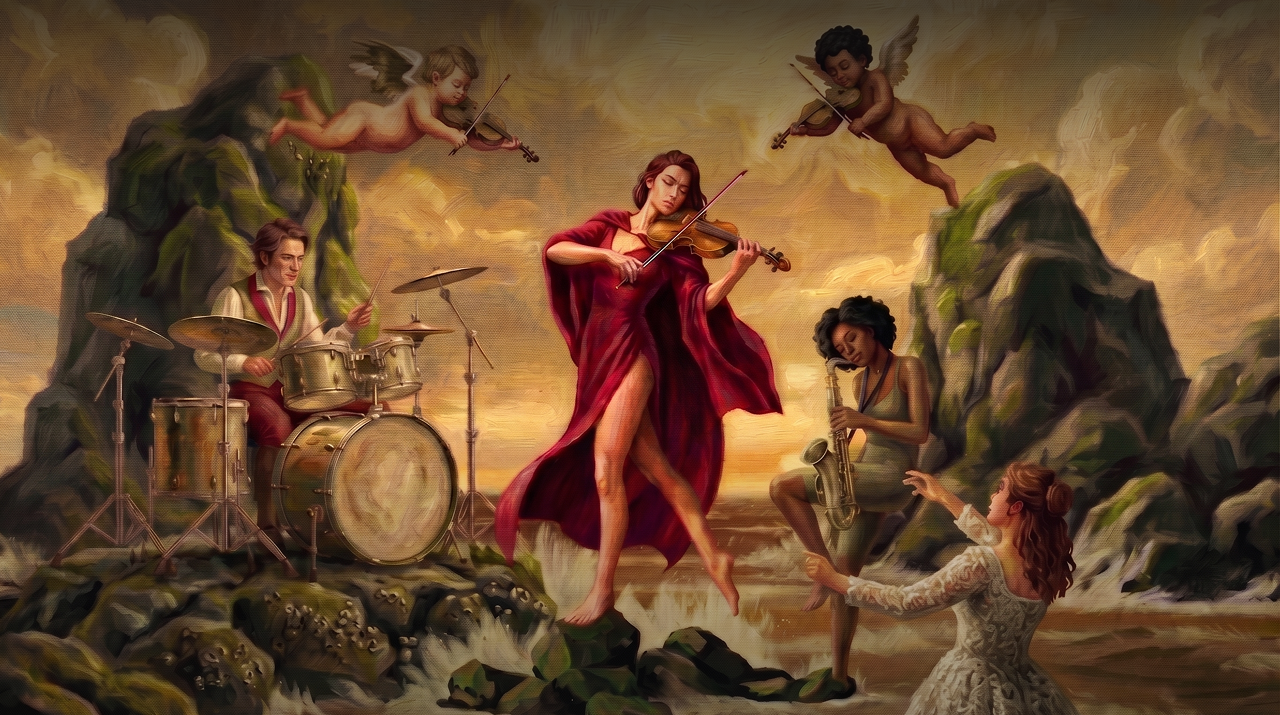
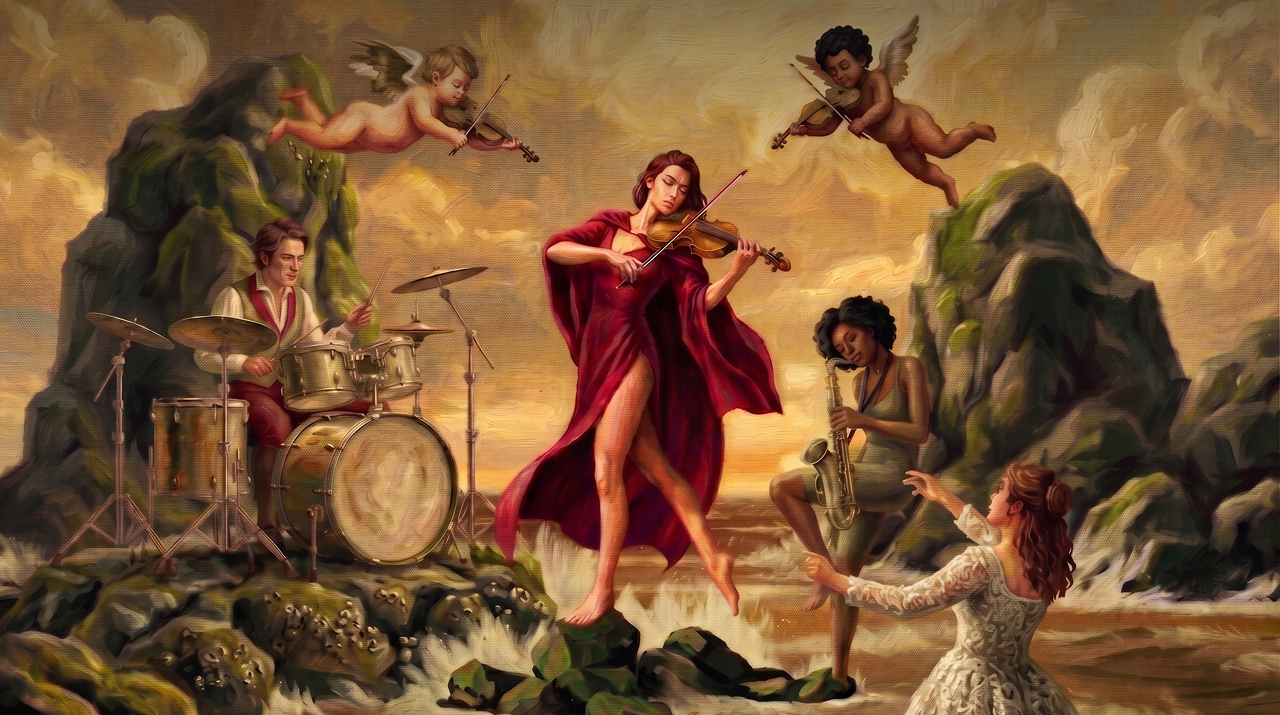
feat: implement homepage layout, responsive navigation, and site footer with custom branding assets

diff --git a/src/components/layout/Navbar.tsx b/src/components/layout/Navbar.tsx
@@ -66,20 +66,17 @@ export default function Navbar() {
 
   return (
     <header
-      className={`fixed top-0 left-0 right-0 z-50 transition-transform duration-500 ease-in-out ${
-        isVisible ? 'translate-y-0' : '-translate-y-full'
-      } ${
-        isTransparent
+      className={`fixed top-0 left-0 right-0 z-50 transition-transform duration-500 ease-in-out ${isVisible ? 'translate-y-0' : '-translate-y-full'
+        } ${isTransparent
           ? 'bg-transparent border-transparent text-white py-3'
           : 'bg-white/90 backdrop-blur-md border-b border-neutral-200/80 text-neutral-900 py-3 shadow-sm'
-      }`}
+        }`}
     >
-      <div className="mx-auto flex max-w-6xl items-center justify-between px-6">
+      <div className="mx-auto flex max-w-95vw items-center justify-between px-6">
         <Link
           href="/"
-          className={`flex items-center gap-2 text-lg sm:text-xl font-bold tracking-widest font-clash uppercase transition-colors duration-300 ${
-            isTransparent ? 'text-white' : 'text-neutral-900'
-          }`}
+          className={`flex items-center gap-2 text-lg sm:text-xl font-bold tracking-widest font-clash uppercase transition-colors duration-300 ${isTransparent ? 'text-white' : 'text-neutral-900'
+            }`}
         >
           L&apos;Archive Sonore
         </Link>
@@ -87,9 +84,8 @@ export default function Navbar() {
         <div className="flex items-center gap-6">
           <Link
             href="/about"
-            className={`nav-link-underline font-clash uppercase tracking-wider text-xs md:text-sm font-semibold transition-colors duration-300 ${
-              isTransparent ? 'text-white/90 hover:text-white' : 'text-neutral-600 hover:text-neutral-900'
-            }`}
+            className={`nav-link-underline font-clash uppercase tracking-wider text-xs md:text-sm font-semibold transition-colors duration-300 ${isTransparent ? 'text-white/90 hover:text-white' : 'text-neutral-600 hover:text-neutral-900'
+              }`}
           >
             About
           </Link>
@@ -97,9 +93,8 @@ export default function Navbar() {
           {!loading && user ? (
             <Link
               href="/profile"
-              className={`nav-link-underline flex items-center gap-1.5 font-clash uppercase tracking-wider text-xs md:text-sm font-semibold transition-colors duration-300 ${
-                isTransparent ? 'text-white/90 hover:text-white' : 'text-neutral-600 hover:text-neutral-900'
-              }`}
+              className={`nav-link-underline flex items-center gap-1.5 font-clash uppercase tracking-wider text-xs md:text-sm font-semibold transition-colors duration-300 ${isTransparent ? 'text-white/90 hover:text-white' : 'text-neutral-600 hover:text-neutral-900'
+                }`}
             >
               <User className="h-4 w-4" />
               Profile
@@ -107,9 +102,8 @@ export default function Navbar() {
           ) : !loading ? (
             <Link
               href="/signin"
-              className={`nav-link-underline font-clash uppercase tracking-wider text-xs md:text-sm font-semibold transition-colors duration-300 ${
-                isTransparent ? 'text-white/90 hover:text-white' : 'text-neutral-600 hover:text-neutral-900'
-              }`}
+              className={`nav-link-underline font-clash uppercase tracking-wider text-xs md:text-sm font-semibold transition-colors duration-300 ${isTransparent ? 'text-white/90 hover:text-white' : 'text-neutral-600 hover:text-neutral-900'
+                }`}
             >
               Sign In
             </Link>
@@ -119,9 +113,8 @@ export default function Navbar() {
 
           <Link
             href="/cart"
-            className={`relative flex items-center gap-1 transition-colors duration-300 ${
-              isTransparent ? 'text-white/90 hover:text-white' : 'text-neutral-600 hover:text-neutral-900'
-            }`}
+            className={`relative flex items-center gap-1 transition-colors duration-300 ${isTransparent ? 'text-white/90 hover:text-white' : 'text-neutral-600 hover:text-neutral-900'
+              }`}
           >
             <ShoppingCart className="h-5 w-5 sm:h-6 sm:w-6" />
             {totalItems > 0 && (

diff --git a/src/app/page.tsx b/src/app/page.tsx
@@ -61,12 +61,13 @@ export default function Home() {
         style={{ backgroundImage: "url('/HERO_SECTION.png')", aspectRatio: "1280/806" }}
       >
         {/* Content */}
-        <div className="relative z-10 max-w-4xl px-4 sm:px-6 flex flex-col items-center justify-center">
+        <div className="relative z-10 max-w-4xl px-4 sm:px-6 flex flex-col items-center justify-center mt-15">
+
           <h1 className="flex flex-col items-center text-center">
-            <span className="font-cormorant italic font-light text-white text-3xl sm:text-5xl md:text-6xl lg:text-8xl tracking-normal capitalize drop-shadow-[0_4px_12px_rgba(0,0,0,0.7)]">
+            <span className="font-cormorant italic font-light text-white text-3xl sm:text-5xl md:text-6xl lg:text-6xl tracking-normal capitalize drop-shadow-[0_4px_12px_rgba(0,0,0,0.7)]">
               L&apos;Archive
             </span>
-            <span className="font-clash font-medium text-white text-7xl sm:text-6xl md:text-7xl lg:text-8xl tracking-normal uppercase mt-2vh sm:mt-[-16px] md:mt-[-20px] -lg:mt-0.7 drop-shadow-[0_4px_12px_rgba(0,0,0,0.5)]">
+            <span className="font-clash font-medium text-white text-7xl sm:text-6xl md:text-7xl lg:text-6xl tracking-normal uppercase mt-2vh sm:mt-[-16px] md:mt-[-20px] lg:mt-0 drop-shadow-[0_4px_12px_rgba(0,0,0,0.5)]">
               Sonore
             </span>
           </h1>

diff --git a/src/components/layout/Footer.tsx b/src/components/layout/Footer.tsx
@@ -52,13 +52,13 @@ export default function Footer() {
         <div className="relative w-full overflow-hidden bg-transparent">
           {/* Background Image */}
           <img
-            src="/gambar%20footer%203.png"
+            src="/gambar%20footer.png"
             alt="L'Archive Sonore Footer Background"
             className="w-full h-auto block opacity-90 brightness-[0.85] contrast-[1.05]"
           />
           {/* Text Overlay */}
           <div className="absolute inset-0 flex items-center justify-center p-4 bg-black/10">
-            <h2 className="text-white text-[10vw] font-normal tracking-normal text-center uppercase font-clash leading-none whitespace-nowrap scale-y-110 origin-center mt-35 drop-shadow-[0_4px_12px_rgba(0,0,0,0.35)]">
+            <h2 className="text-white text-[10vw] font-normal tracking-normal text-center uppercase font-clash leading-none whitespace-nowrap scale-y-105 origin-center mt-35 drop-shadow-[0_4px_12px_rgba(0,0,0,0.35)]">
               L&apos;Archive Sonore
             </h2>
           </div>
